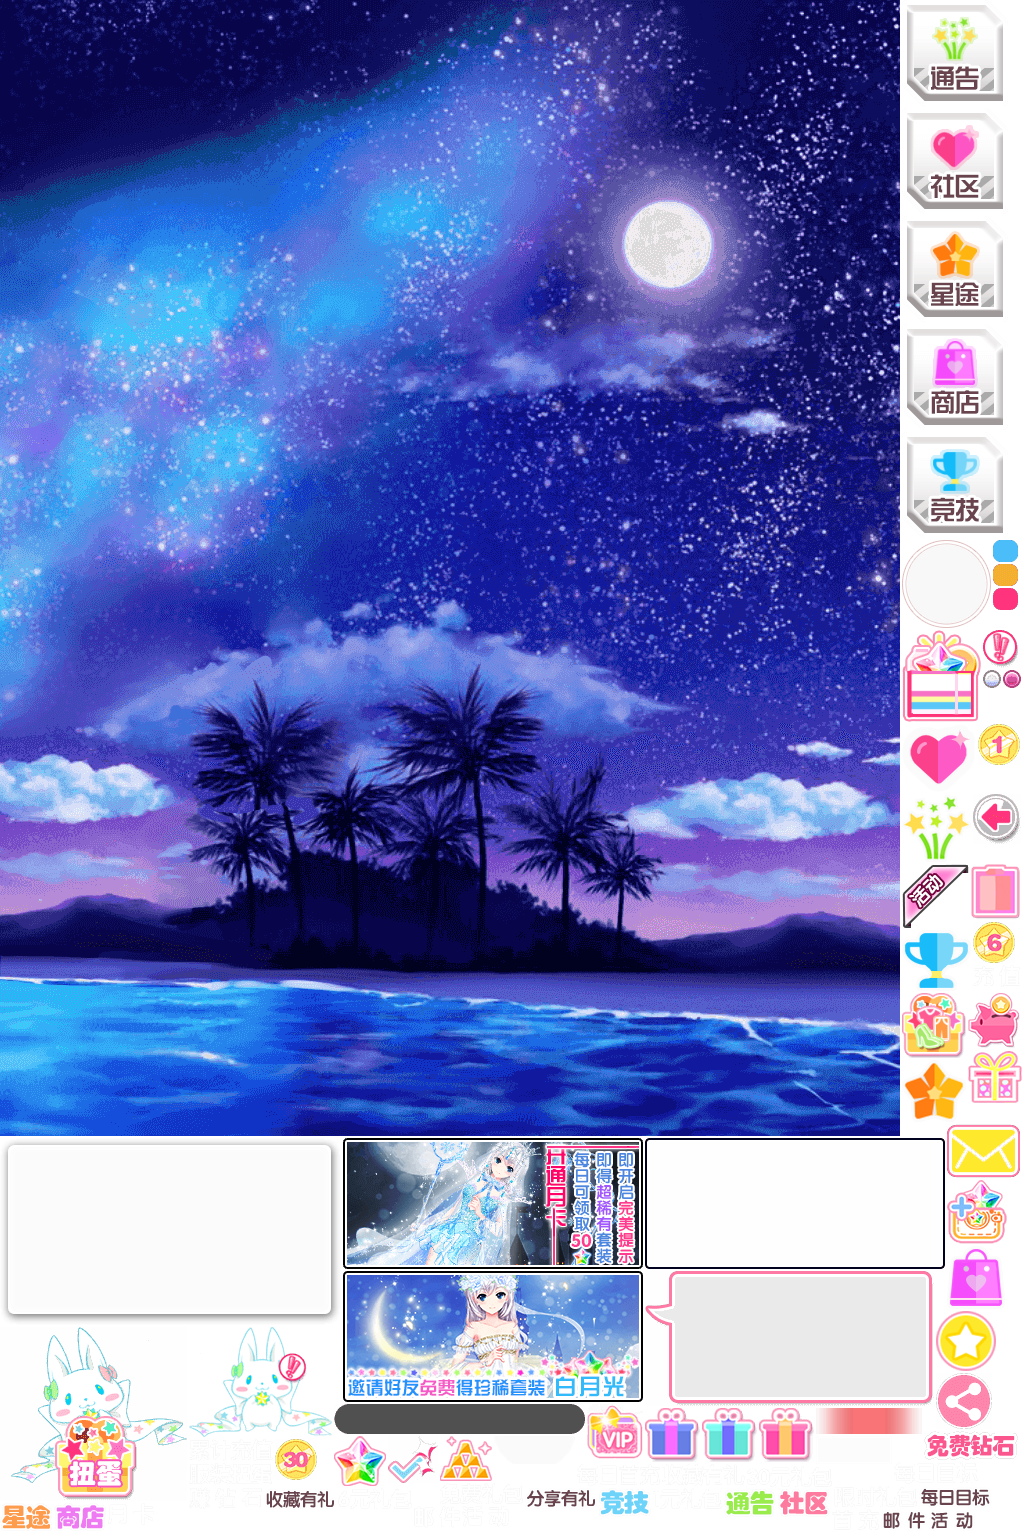
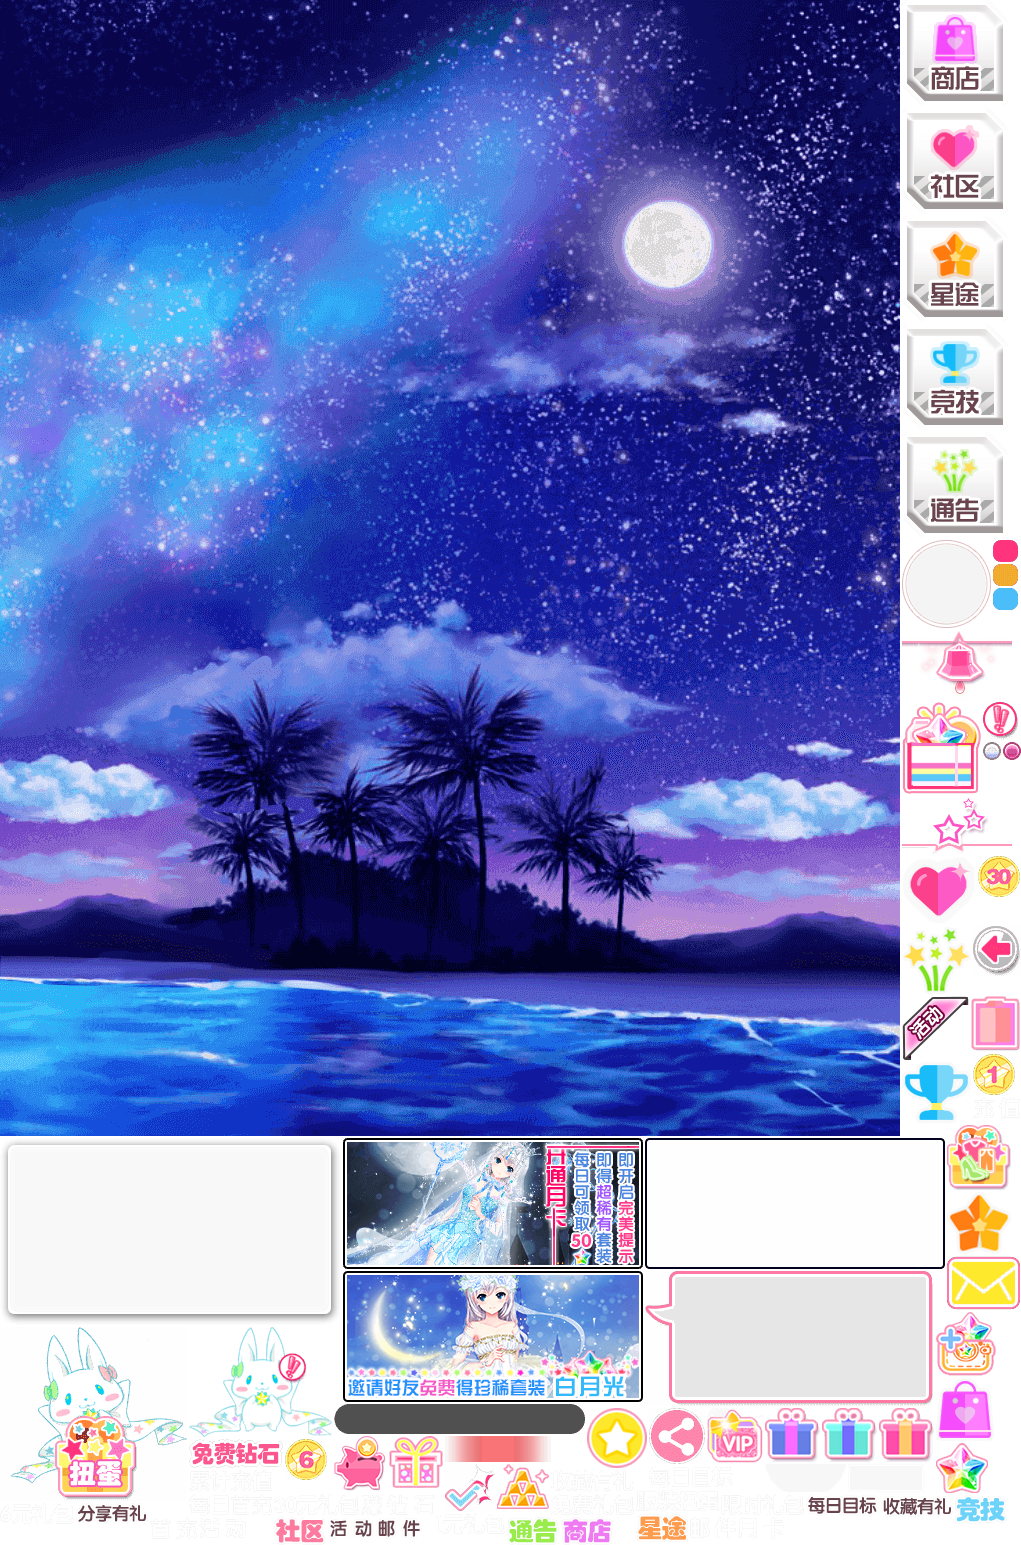
huodongxiugai

diff --git a/nixi/src/scenes/main/MainComp.ts b/nixi/src/scenes/main/MainComp.ts
@@ -41,6 +41,10 @@ class MainComp extends eui.Component {
 	public btn_jinji: eui.Group;
 
 	public popGroup: eui.Group;
+	public btn_lingdang: eui.Image;
+	public groupMask: eui.Rect;
+
+	private isOpen: boolean = true;
 
 	public imglock: eui.Image;
 
@@ -68,6 +72,8 @@ class MainComp extends eui.Component {
 
 		var self = this;
 
+		this.popGroup.mask = this.groupMask;
+
 		this.updateBg();
 
 		this.initView();
@@ -91,6 +97,8 @@ class MainComp extends eui.Component {
 		this.mcGroup.addEventListener(egret.TouchEvent.TOUCH_TAP, this.onBtnMc, this);
 
 		this.tlGroup2.addEventListener(egret.TouchEvent.TOUCH_TAP, this.onBtnTl, this);
+
+		this.btn_lingdang.addEventListener(egret.TouchEvent.TOUCH_TAP, this.onBtnLingdang, this);
 
 		// this.newShare.addEventListener(egret.TouchEvent.TOUCH_TAP, this.onShare, this);
 
@@ -337,6 +345,7 @@ class MainComp extends eui.Component {
 		this.mcGroup.removeEventListener(egret.TouchEvent.TOUCH_TAP, this.onBtnMc, this);
 
 		this.tlGroup2.removeEventListener(egret.TouchEvent.TOUCH_TAP, this.onBtnTl, this);
+		this.btn_lingdang.removeEventListener(egret.TouchEvent.TOUCH_TAP, this.onBtnLingdang, this);
 
 		this.btn_shequ.removeEventListener(egret.TouchEvent.TOUCH_TAP, this.onSjComp, this);
 		this.btn_xingtu.removeEventListener(egret.TouchEvent.TOUCH_TAP, this.onXtComp, this);
@@ -677,6 +686,7 @@ class MainComp extends eui.Component {
 				HttpMgr.postRequest(request);
 			} else if ((ShareData.isFirstPay == false) || (ShareData.isFirstPay && ShareData.firstpay_lottery_times == 0)) {
 				var panel = new FirstPayPanel();
+				InviteData.isShowInvite = false;
 				DisplayMgr.set2Center(panel);
 				self.stage.addChild(panel);
 			} else {
@@ -782,6 +792,29 @@ class MainComp extends eui.Component {
 			NetLoading.showLoading();
 			var request: egret.URLRequest = HttpProtocolMgr.competition_info_820(!CompetitionData.hasInitRankInfo());
 			HttpMgr.postRequest(request);
+		});
+	}
+
+	private onBtnLingdang(evt: egret.TouchEvent) {
+		var self = this;
+		DisplayMgr.buttonScale(this.btn_lingdang, function() {
+			if(self.isOpen) {
+				//收起
+				self.isOpen = false;
+				self.btn_lingdang.touchEnabled = false;
+				var tw = egret.Tween.get(self.popGroup);
+				tw.to({y: 52 - 590}, 300).call(function() {
+					self.btn_lingdang.touchEnabled = true;
+				}, self);
+			}else {
+				//弹出
+				self.isOpen = true;
+				self.btn_lingdang.touchEnabled = false;
+				var tw = egret.Tween.get(self.popGroup);
+				tw.to({y: 52}, 300).call(function() {
+					self.btn_lingdang.touchEnabled = true;
+				}, self);
+			}
 		});
 	}
 

diff --git a/nixi/src/scenes/main/AcComp.ts b/nixi/src/scenes/main/AcComp.ts
@@ -60,14 +60,12 @@ class AcComp extends eui.Component {
 		this.timer = new egret.Timer(3500, 0);
 		this.timer.addEventListener(egret.TimerEvent.TIMER, this.onTimerCallback, this);
 
-		CustomEventMgr.addEventListener("302", this.result_of_302, this);
 
 		this.timer.start();
 	}
 
 	private onExit() {
 		this.removeEventListener(egret.Event.REMOVED_FROM_STAGE, this.onExit, this);
-		CustomEventMgr.removeEventListener("302", this.result_of_302, this);
 
 		this.list.removeEventListener(eui.ItemTapEvent.ITEM_TAP, this.onSelected, this);
 		this.scroller.removeEventListener(eui.UIEvent.CHANGE_START, this.onChangeStart, this);
@@ -102,41 +100,13 @@ class AcComp extends eui.Component {
 			case 0:
 				NetLoading.showLoading();
 				// var request: egret.URLRequest = HttpProtocolMgr.all_products_100();
-				var request: egret.URLRequest;
-				if (GashaponData.has_init_gashapon_template()) {
-					request = HttpProtocolMgr.gashapon_info_306(false);
-				} else {
-					request = HttpProtocolMgr.gashapon_info_306(true);
-				}
+				var request = HttpProtocolMgr.take_invite_info_165();
 				HttpMgr.postRequest(request);
 				break;
 			case 1:
-				NetLoading.showLoading();
-				var request: egret.URLRequest;
-				if (SigninData.has_init_signin7_template()) {
-					request = HttpProtocolMgr.signin7_info_302(false);
-				} else {
-					request = HttpProtocolMgr.signin7_info_302(true);
-				}
-				HttpMgr.postRequest(request);
-				break;
-			case 2:
-				// var onePanel = new OnePanel();
-				// DisplayMgr.set2Center(onePanel);
-				// egret.MainContext.instance.stage.addChild(onePanel);
-				var panel = new EnergyPanel();
+				var panel = new MonthCardPanel();
 				DisplayMgr.set2Center(panel);
-				egret.MainContext.instance.stage.addChild(panel);
-				break;
-			case 3:
-				// var sixPanel = new SixPanel();
-				// DisplayMgr.set2Center(sixPanel);
-				// egret.MainContext.instance.stage.addChild(sixPanel);
-				NetLoading.showLoading();
-				var request = HttpProtocolMgr.all_products_100();
-				HttpMgr.postRequest(request);
-				break;
-			case 4:
+				this.stage.addChild(panel);
 				break;
 		}
 	}
@@ -184,16 +154,6 @@ class AcComp extends eui.Component {
 			this.scroller.enabled = true;
 			this.timer.start();
 		}, this);
-	}
-
-	private result_of_302(evt: egret.Event) {
-		NetLoading.removeLoading();
-		var panel = new SigninPanel();
-		DisplayMgr.set2Center(panel);
-		this.stage.addChild(panel);
-	}
-
-	private result_of_306(evt: egret.Event) {
 	}
 }
 
